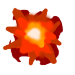
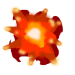
Explosion image fixes

diff --git a/Player.py b/Player.py
@@ -13,6 +13,24 @@ class Player(Ball):
         self.x = self.rect.centerx
         self.y = self.rect.centery
         
+        self.explosionImages = [pygame.image.load("Images/Player/DestroyedShip1.png"),
+                      pygame.image.load("Images/Player/DestroyedShip2.png"),
+                      pygame.image.load("Images/Player/DestroyedShip3.png"),
+                      pygame.image.load("Images/Player/DestroyedShip4.png"),
+                      pygame.image.load("Images/Player/DestroyedShip5.png"),
+                      pygame.image.load("Images/Player/DestroyedShip6.png"),
+                      pygame.image.load("Images/Player/DestroyedShip7.png"),
+                      pygame.image.load("Images/Player/DestroyedShip8.png"),
+                      pygame.image.load("Images/Player/DestroyedShip9.png"),
+                      pygame.image.load("Images/Player/DestroyedShip10.png"),
+                      pygame.image.load("Images/Player/DestroyedShip11.png"),]
+        
+        self.frame = 0
+        self.frameMax = len(self.images)-1 
+        self.image = self.images[self.frame]
+        self.rect = self.image.get_rect()
+        self.animationTimer = 0
+        self.animationTimerMax = 120/10
         self.maxSpeed = maxSpeed
         self.angle = 90
         self.speed = 0
@@ -36,7 +54,15 @@ class Player(Ball):
             self.speed += self.accSpeed
         elif direction == "down":
             self.speed -= self.accSpeed        
-                  
+    
+    def explode(self):
+        if self.animationTimer >= self.animationTimerMax:
+            self.animationTimer = 0
+            if self.frame >= self.frameMax:
+                self.frame = 0
+            else:
+                self.frame += 1
+            self.image = self.images[self.frame]
                     
     def move(self):
         if self.speed > self.maxSpeed:
@@ -84,13 +110,13 @@ class Player(Ball):
          
         
     def death(self):
+        self.explode()
         self.dieSound.play()
         self.maxSpeed = 0
         self.angle = 90
         self.speed = 0
         self.turnSpeed = 0
         self.accSpeed = 0
-        self.image = self.imagedead
     
     def respawn(self):
         self.maxSpeed = 4

diff --git a/Ball.py b/Ball.py
@@ -25,12 +25,16 @@ class Ball():
                       pygame.image.load("Images/Ball/BallExplode6.png"),
                       pygame.image.load("Images/Ball/BallExplode7.png"),
                       pygame.image.load("Images/Ball/BallExplode8.png"),]
-        
+                      
+        self.explosionFrameMax = len(self.explosionImages)-1 
+        self.explosionFrame = 0
+        self.explosionImage = self.explosionImages[self.explosionFrame]
         self.rect = self.rect.move(startPos)
 
         
         self.kind = "ball"
         self.animationTimer = 0
+        self.explosionAnimationTimer = 0
         self.animationTimerMax = 120/10
         
         self.deathSound=pygame.mixer.Sound("Sounds/Other/ball explosion.mp3")
@@ -79,6 +83,15 @@ class Ball():
                 self.frame += 1
             self.image = self.images[self.frame]
             
+    def explode(self):
+        if self.explosionAnimationTimer >= self.animationTimerMax:
+            self.explosionAnimationTimer = 0
+            if self.explosionFrame >= self.explosionFrameMax:
+                self.explosionFrame = 0
+            else:
+                self.explosionFrame += 1
+            self.image = self.explosionImages[self.explosionFrame]
+            
             
     def ballCollide(self, other):
         if self != other:
@@ -99,6 +112,7 @@ class Ball():
         
     def die(self):
         self.deathSound.play()
+        
         
 
     def getDist(self, other):

diff --git a/Main.py b/Main.py
@@ -60,6 +60,7 @@ while True:
     shootTimer = 0
     shootTimerMax = 1 * 100
     deathTimer = 150
+ 
     laserTimer = 100
     alive = True
     lives = 3
@@ -155,14 +156,18 @@ while True:
                         lasers.remove(laser)
                         laserTimer = 100
                         points += 50
-                        balls.remove(ball)
                         laser.hit()
                         score.update(points)
                     elif laserTimer <= 0 and canShoot == True:
                         laser.update(size)
                         lasers.remove(laser)
                         laserTimer = 100
-                   
+                    if ball.ballCollide(laser):
+                        ballDeathTimer = 150
+                        ball.explode()
+                        ballDeathTimer -= 1
+                        if ballDeathTimer <= 0:
+                            balls.remove(ball)
             
                 if player.ballCollide(ball):
                     if alive == True:
